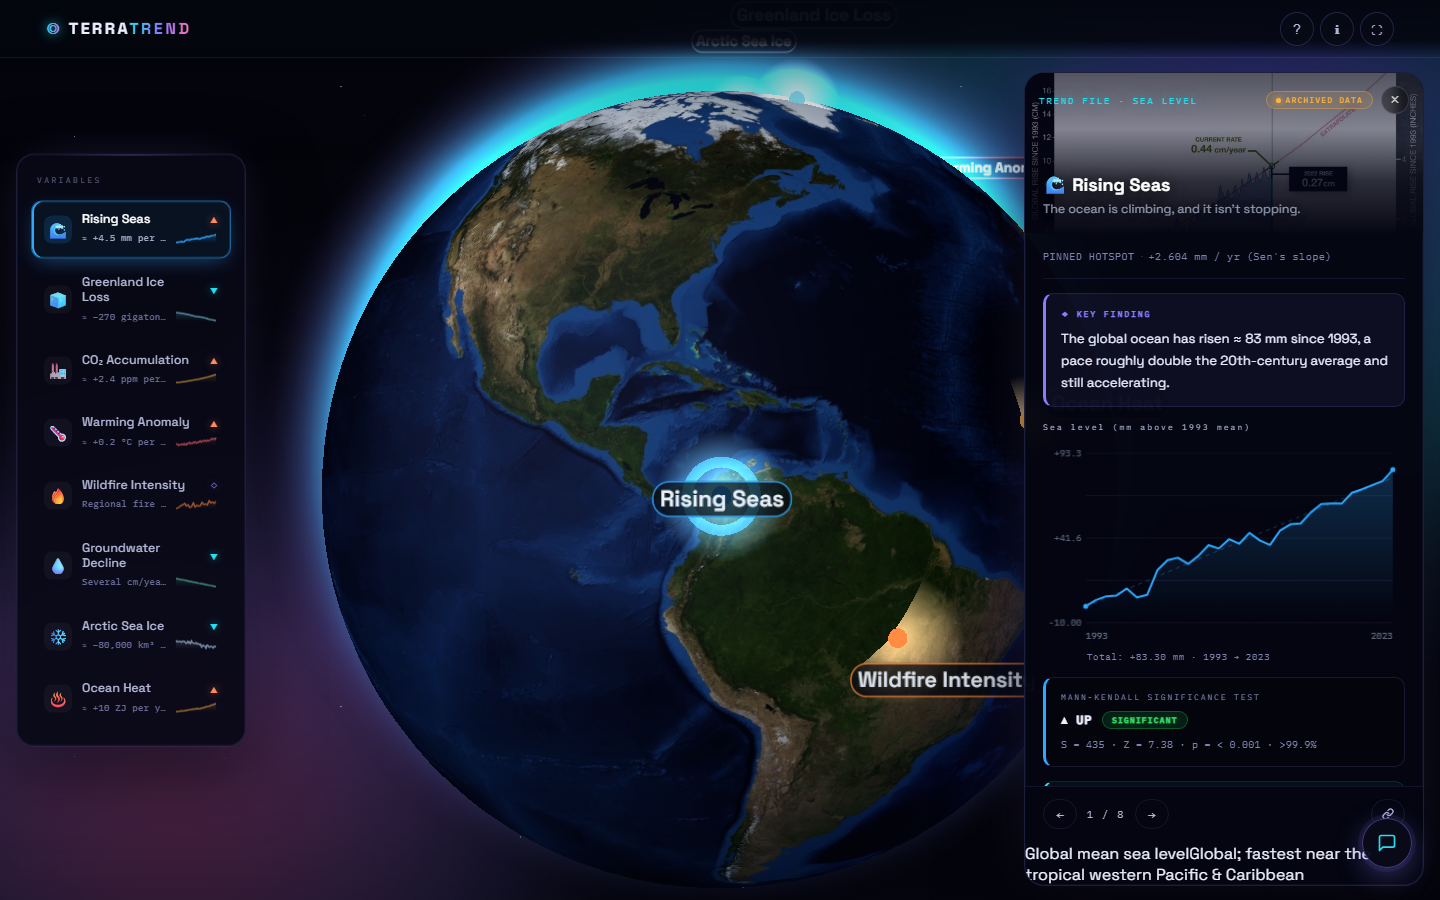
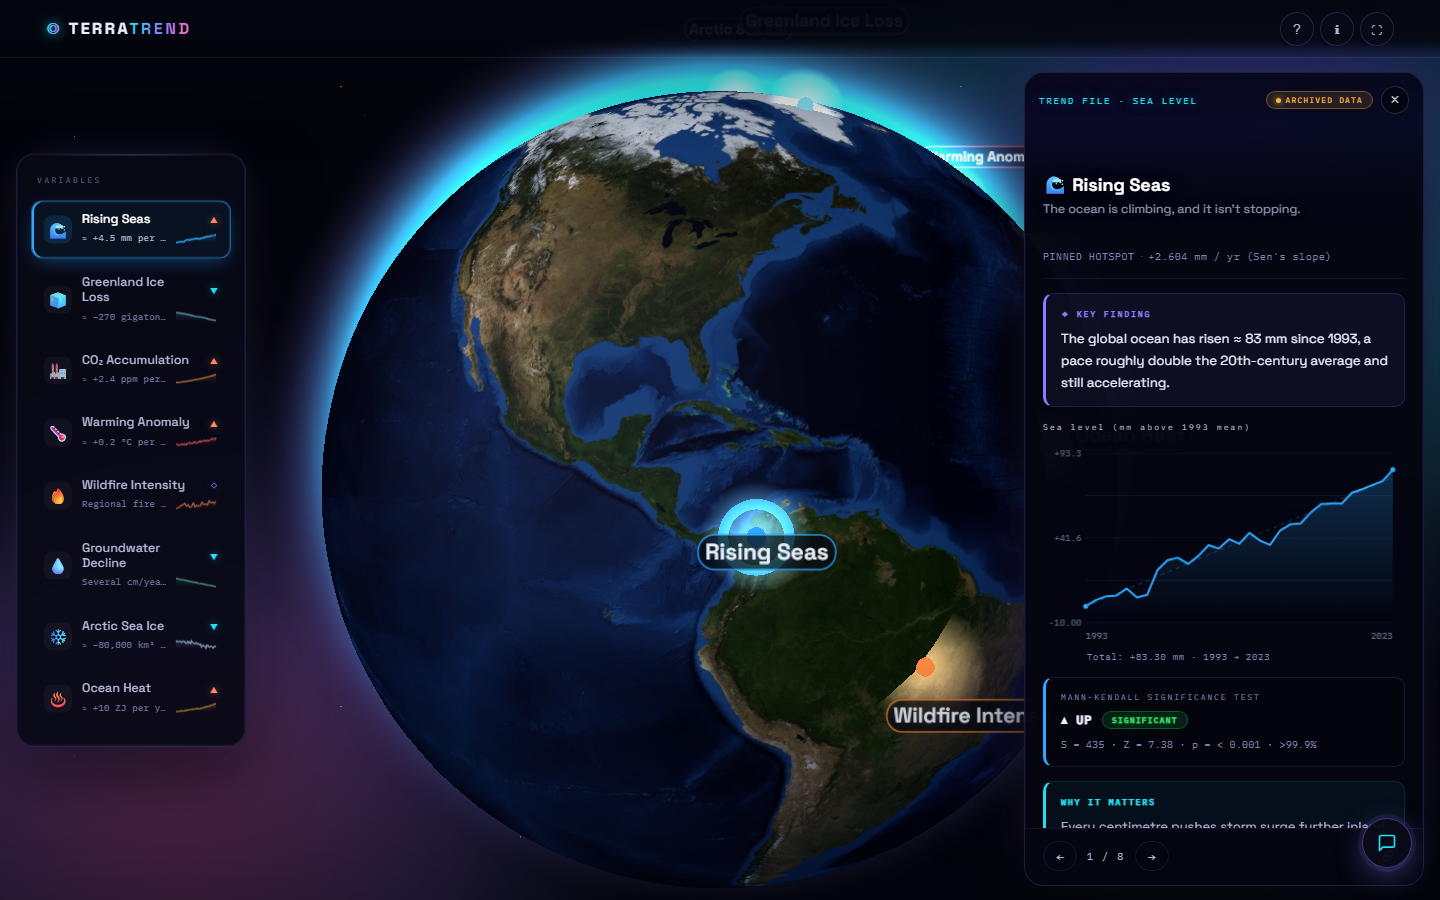
Add verification screenshots and screenshot scripts

diff --git a/scripts/screenshot.js b/scripts/screenshot.js
@@ -1,0 +1,81 @@
+const puppeteer = require('puppeteer');
+const path = require('path');
+
+const BASE = 'http://localhost:8099';
+const OUT  = path.join(__dirname, '..', 'docs', 'screenshots');
+
+async function shot(page, file, fn) {
+  await fn(page);
+  await page.screenshot({ path: path.join(OUT, file), type: 'png' });
+  console.log('captured', file);
+}
+
+(async () => {
+  const browser = await puppeteer.launch({
+    headless: 'new',
+    executablePath: 'C:\\Program Files\\Google\\Chrome\\Application\\chrome.exe',
+    args: ['--no-sandbox', '--disable-setuid-sandbox', '--disable-gpu'],
+  });
+
+  /* ── 1. Splash screen ─────────────────────────────────────────────── */
+  {
+    const page = await browser.newPage();
+    await page.setViewport({ width: 1440, height: 900, deviceScaleFactor: 1 });
+    await page.goto(BASE, { waitUntil: 'networkidle2', timeout: 20000 });
+    await page.waitForSelector('#splash', { visible: true });
+    await shot(page, 'splash.png', async () => {
+      await new Promise(r => setTimeout(r, 800));
+    });
+    await page.close();
+  }
+
+  /* ── 2. Globe – co2 hotspot open ──────────────────────────────────── */
+  {
+    const page = await browser.newPage();
+    await page.setViewport({ width: 1440, height: 900, deviceScaleFactor: 1 });
+    await page.goto(BASE + '/?spot=co2', { waitUntil: 'networkidle2', timeout: 20000 });
+    // dismiss splash
+    await page.waitForSelector('#launch-btn', { visible: true });
+    await page.click('#launch-btn');
+    // wait for splash to be dismissed (body gets app-armed class)
+    await page.waitForFunction(() => document.body.classList.contains('app-armed'));
+    await new Promise(r => setTimeout(r, 3500));
+    await shot(page, 'globe.png', async () => {
+      await new Promise(r => setTimeout(r, 500));
+    });
+    await page.close();
+  }
+
+  /* ── 3. Case files / sidebar ──────────────────────────────────────── */
+  {
+    const page = await browser.newPage();
+    await page.setViewport({ width: 1440, height: 900, deviceScaleFactor: 1 });
+    await page.goto(BASE + '/?spot=temperature', { waitUntil: 'networkidle2', timeout: 20000 });
+    await page.waitForSelector('#launch-btn', { visible: true });
+    await page.click('#launch-btn');
+    await page.waitForFunction(() => document.body.classList.contains('app-armed'));
+    await new Promise(r => setTimeout(r, 3500));
+    await shot(page, 'case-files.png', async () => {
+      await new Promise(r => setTimeout(r, 500));
+    });
+    await page.close();
+  }
+
+  /* ── 4. Mobile viewport ───────────────────────────────────────────── */
+  {
+    const page = await browser.newPage();
+    await page.setViewport({ width: 375, height: 812, deviceScaleFactor: 2 });
+    await page.goto(BASE + '/?spot=arctic-ice', { waitUntil: 'networkidle2', timeout: 20000 });
+    await page.waitForSelector('#launch-btn', { visible: true });
+    await page.click('#launch-btn');
+    await page.waitForFunction(() => document.body.classList.contains('app-armed'));
+    await new Promise(r => setTimeout(r, 3500));
+    await shot(page, 'mobile-globe.png', async () => {
+      await new Promise(r => setTimeout(r, 500));
+    });
+    await page.close();
+  }
+
+  await browser.close();
+  console.log('done');
+})();

diff --git a/scripts/screenshot2.js b/scripts/screenshot2.js
@@ -1,0 +1,83 @@
+const puppeteer = require('puppeteer');
+const path = require('path');
+
+const BASE = 'http://localhost:8099';
+
+async function shot(page, file, fn) {
+  await fn();
+  await page.screenshot({ path: file, type: 'png' });
+  console.log('captured', path.basename(file));
+}
+
+(async () => {
+  const browser = await puppeteer.launch({
+    headless: 'new',
+    executablePath: 'C:\\Program Files\\Google\\Chrome\\Application\\chrome.exe',
+    args: ['--no-sandbox', '--disable-setuid-sandbox', '--disable-gpu'],
+  });
+
+  const tmp = 'C:\\Users\\Lenovo\\Desktop\\TerraTrend\\docs\\screenshots';
+
+  /* panel redesign */
+  {
+    const page = await browser.newPage();
+    await page.setViewport({ width: 1440, height: 900, deviceScaleFactor: 1 });
+    await page.goto(BASE + '/?spot=sea-level', { waitUntil: 'networkidle2', timeout: 20000 });
+    await page.waitForSelector('#launch-btn', { visible: true });
+    await page.click('#launch-btn');
+    await page.waitForFunction(() => document.body.classList.contains('app-armed'));
+    await shot(page, tmp + '\\globe.png', async () => { await new Promise(r => setTimeout(r, 3500)); });
+    await page.close();
+  }
+
+  /* sidebar pills */
+  {
+    const page = await browser.newPage();
+    await page.setViewport({ width: 1440, height: 900, deviceScaleFactor: 1 });
+    await page.goto(BASE + '/?spot=wildfire', { waitUntil: 'networkidle2', timeout: 20000 });
+    await page.waitForSelector('#launch-btn', { visible: true });
+    await page.click('#launch-btn');
+    await page.waitForFunction(() => document.body.classList.contains('app-armed'));
+    await new Promise(r => setTimeout(r, 3000));
+    /* crop just the sidebar */
+    const sidebar = await page.$('.var-sidebar');
+    await sidebar.screenshot({ path: tmp + '\\sidebar-check.png' });
+    console.log('captured sidebar-check.png');
+    await page.close();
+  }
+
+  /* method modal */
+  {
+    const page = await browser.newPage();
+    await page.setViewport({ width: 1440, height: 900, deviceScaleFactor: 1 });
+    await page.goto(BASE, { waitUntil: 'networkidle2', timeout: 20000 });
+    await page.waitForSelector('#launch-btn', { visible: true });
+    await page.click('#launch-btn');
+    await page.waitForFunction(() => document.body.classList.contains('app-armed'));
+    await new Promise(r => setTimeout(r, 1000));
+    await page.click('#rail-method');
+    await new Promise(r => setTimeout(r, 600));
+    await page.screenshot({ path: tmp + '\\method-check.png' });
+    console.log('captured method-check.png');
+    await page.close();
+  }
+
+  /* about modal */
+  {
+    const page = await browser.newPage();
+    await page.setViewport({ width: 1440, height: 900, deviceScaleFactor: 1 });
+    await page.goto(BASE, { waitUntil: 'networkidle2', timeout: 20000 });
+    await page.waitForSelector('#launch-btn', { visible: true });
+    await page.click('#launch-btn');
+    await page.waitForFunction(() => document.body.classList.contains('app-armed'));
+    await new Promise(r => setTimeout(r, 1000));
+    await page.click('#rail-about');
+    await new Promise(r => setTimeout(r, 600));
+    await page.screenshot({ path: tmp + '\\about-check.png' });
+    console.log('captured about-check.png');
+    await page.close();
+  }
+
+  await browser.close();
+  console.log('done');
+})();
